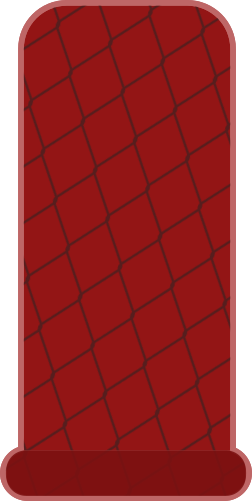
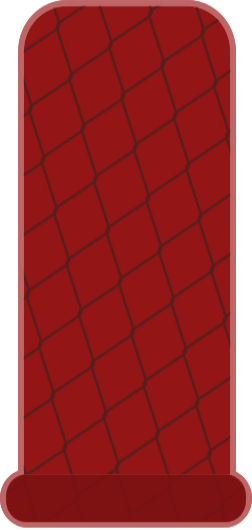
modified:   src/assets/image/net.png 	modified:   src/scenes/ArenaScene.ts 	modified:   src/scenes/GameOverScene.ts

diff --git a/src/scenes/ArenaScene.ts b/src/scenes/ArenaScene.ts
@@ -122,7 +122,7 @@ export class ArenaScene extends Phaser.Scene {
 
         this.ground = this.matter.add.image(950, 982, 'ground', undefined, { restitution: 0.4, isStatic: true }).setDepth(0);
 
-        this.net = this.matter.add.image(950, 790, 'net', undefined, { restitution: 0.4, isStatic: true }).setDepth(0).setScale(0.7);
+        this.net = this.matter.add.image(950, 785, 'net', undefined, { restitution: 0.4, isStatic: true }).setDepth(0).setScale(0.7);
         this.net.setBody({
             type: "rectangle",
             width: this.net.width * 0.58,
@@ -302,10 +302,12 @@ export class ArenaScene extends Phaser.Scene {
                 if ((bodyA === this.ball.body && bodyB === this.playerR.body) ||
                     (bodyA === this.playerR.body && bodyB === this.ball.body)) {
                     this.playerR.setData('hit', false);
+                    this.playerR.setData('kill', false);
                 }
                 if ((bodyA === this.ball.body && bodyB === this.playerB.body) ||
                     (bodyA === this.playerB.body && bodyB === this.ball.body)) {
                     this.playerB.setData('hit', false);
+                    this.playerB.setData('kill', false);
                 }
             });
         });
@@ -316,7 +318,7 @@ export class ArenaScene extends Phaser.Scene {
         speed = this.playerR.y > 650 ? speed : speed / 2;
 
         if (this.cursors.up.isDown && this.playerR.getData('onGround')) {
-            this.playerR.setVelocityY(-4 * speed);
+            this.playerR.setVelocityY(-3.9 * speed);
         }
         if (this.cursors.left.isDown) {
             this.playerR.setVelocityX(-2 * speed);
@@ -331,7 +333,7 @@ export class ArenaScene extends Phaser.Scene {
 
         if (this.mode == "pvp") {
             if (this.keys.w.isDown && this.playerB.getData('onGround')) {
-                this.playerB.setVelocityY(-4 * speed);
+                this.playerB.setVelocityY(-3.9 * speed);
             }
             if (this.keys.a.isDown) {
                 this.playerB.setVelocityX(-2 * speed);
@@ -399,7 +401,7 @@ export class ArenaScene extends Phaser.Scene {
 
         if ((angle < 3.15 && angle > -0.1) || angle < -3) {
             if (player.getData('onGround')) {
-                player.setVelocityY(-4 * speed);
+                player.setVelocityY(-3.8 * speed);
             }
 
             if (angle > 2.2 || angle < -3) {
@@ -457,20 +459,38 @@ export class ArenaScene extends Phaser.Scene {
     robot(): void {
         let speed = this.isGameResetting ? 0 : 4
         speed = this.playerB.y > 600 ? speed : speed / 2;
+        const s = this.isDesktop ? 0.6 : 1.4
+        let target = this.ball.x + (this.ball.getVelocity().x / this.ball.getVelocity().y * Math.max(1, 600 - this.ball.y)) * 1.1 - 100
 
-        if (Math.random() < 0.01 && this.playerB.getData('onGround')) {
-            this.playerB.setVelocityY(-4 * speed);
+        if (this.ball.getVelocity().x < -10 && this.playerB.getData('onGround')) {
+            target -= 200
         }
-        const s = this.isDesktop ? 0.45 : 1.2
-        if (this.playerB.x > this.ball.x - 85 && (this.ball.y > -5 || this.ball.y < -400 || this.isFirst)) {
+        if (this.ball.getVelocity().x < -3 && this.ball.y < 400 && this.playerB.getData('onGround')) {
+            target -= 200
+        }
+        if (Math.abs(this.playerB.x - this.ball.x + 25) < 50 && Math.abs(this.playerB.y - this.ball.y - 260) < 15) {
+            this.playerB.setVelocityX(2 * speed);
+            if (!this.playerB.getData('onGround')) {
+                target += 500
+            }
+            target += 200
+        }
+        if (this.playerB.x > target && !(Math.abs(this.playerB.x - this.ball.x) < 50 && Math.abs(this.playerB.y - this.ball.y - 250) < 10)) {
             this.playerB.setVelocityX(Math.max(this.playerB.getVelocity().x - s, -2 * speed));
-        } else if (this.playerB.x < this.ball.x - 95 && this.ball.x < 900 && (this.ball.y > -5 || this.ball.y < -400 || this.isFirst)) {
+        } else if (this.playerB.x < target) {
             this.playerB.setVelocityX(Math.min(this.playerB.getVelocity().x + s, 2 * speed));
         } else {
             this.playerB.setVelocityX(this.playerB.getVelocity().x * 0.85);
         }
         if (this.playerB.x < 100) {
-            this.playerB.setVelocityX(8);
+            this.playerB.setVelocityX(4 * speed);
+        }
+
+        if (Math.abs(this.playerB.y - this.ball.y - 570) < 50 && this.ball.getVelocity().y > 0 && Math.abs(this.playerB.x - this.ball.x + 150) < 50) {
+            this.playerB.setVelocityY(-3.8 * speed);
+        }
+        if (Math.random() < 0.01 && this.playerB.getData('onGround')) {
+            // this.playerB.setVelocityY(-3.9 * speed);
         }
     }
 
@@ -519,15 +539,17 @@ export class ArenaScene extends Phaser.Scene {
             Math.sin(angle) < 0 ? Math.sin(angle) * speed - 5 : 10,
         );
 
+       
         // 根據玩家的移動添加額外的速度
         if (player.y < 580) {
-            if (this.isFirst || player.getData('onNet')) {
+            if (this.isFirst || player.getData('kill') == true || player.getData('onNet')) {
                 ball.setVelocityY(-20);
                 return
             }
-            ball.setY(ball.y - 20);
+            player.setData('kill', true)
             ball.setVelocityX(ball.body!.velocity.x + player.body!.velocity.x * 4.35);
             ball.setVelocityY(ball.body!.velocity.y + 20);
+            // ball.setX(ball.x + player.body!.velocity.x * 8)
         } else {
             ball.setVelocityX(ball.body!.velocity.x + player.body!.velocity.x * 1.6 + (player.body!.velocity.y < -1 ? player.body!.velocity.x * 0.5 : 0));
             ball.setVelocityY(ball.body!.velocity.y + (player.body!.velocity.y < -8 ? player.body!.velocity.y * 0.7 : 2));

diff --git a/src/scenes/GameOverScene.ts b/src/scenes/GameOverScene.ts
@@ -55,8 +55,8 @@ export class GameOverScene extends Phaser.Scene {
         const angle = -0.5 + Math.sin(time / 150) * 1;
         // this.titleImg.setScale(scale);
         this.titleImg.setAngle(angle);
-        this.bg.setAlpha(this.bg.alpha + 0.01)
-        this.titleImg.setAlpha(this.titleImg.alpha + 0.01)
+        this.bg.setAlpha(this.bg.alpha + 0.02)
+        this.titleImg.setAlpha(this.titleImg.alpha + 0.02)
     }
 
 }
